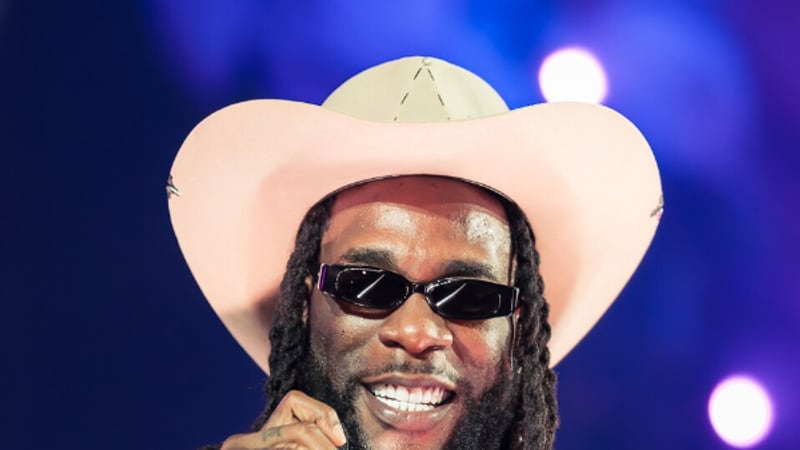
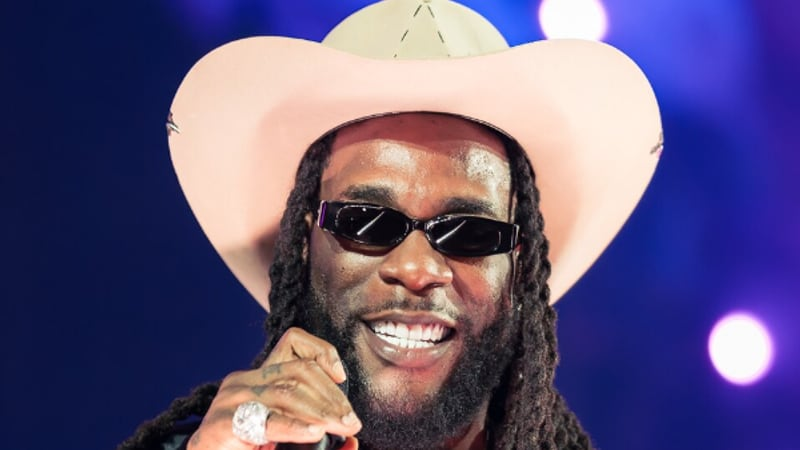
Give every category tile and every story a real photograph
Two sections were still running on generated artwork: the "Every kind of
extraordinary" category mosaic had no imagery at all, and four of the six
stories fell back to a generated banner because only two had a tagged
celebrity.

Category tiles now carry the best-known name in each category, behind a
scrim that holds the type — real photographs vary in exposure, so the
text cannot rely on the image being dark.

Stories get a new `heroTalent` relation, deliberately separate from
`celebrity`. The existing field means "this story is about this person"
and renders a Featured in this story card; borrowing someone's face for
an unrelated piece would have asserted on the page that they are in it.
Each hero now ships with a caption saying who is pictured and why the
photograph sits with the story, plus the photographer and licence — which
CC BY and CC BY-SA require and which the article surfaces previously
omitted entirely. Index and homepage cards carry the credit as an
overlay, matching the profile gallery tiles.

Also re-cut all 27 banner crops. The first pass anchored a 16:9 crop of a
tall portrait at the top edge, which is hair and forehead rather than a
face; Denzel Washington, Chimamanda Ngozi Adichie, Oprah Winfrey, Malcolm
Gladwell, Taylor Swift and Usain Bolt were all foreheads. The band now
starts 18% down the surplus height, with per-frame overrides for three
photographs where the subject sits lower.

Claude-Session: https://claude.ai/code/session_017Wy5QnXYawFGPhp1uzphbo

diff --git a/projects/celebrity-booking-platform/src/app/(marketing)/page.tsx b/projects/celebrity-booking-platform/src/app/(marketing)/page.tsx
@@ -9,7 +9,7 @@ import { Testimonials } from "@/components/marketing/testimonials";
 import { FaqSection } from "@/components/marketing/faq-section";
 import { NewsletterForm } from "@/components/marketing/newsletter-form";
 import { CelebrityCard } from "@/components/celebrity/celebrity-card";
-import { ArticleImage } from "@/components/art/TalentImage";
+import { ArticleImage, TalentImage, articleCredit } from "@/components/art/TalentImage";
 import { Reveal, Stagger, StaggerItem } from "@/components/motion/reveal";
 import { ButtonLink, ArrowGlyph } from "@/components/ui/button";
 import { Avatar } from "@/components/ui/avatar";
@@ -100,19 +100,27 @@ export default async function HomePage() {
                     i === 0 ? "min-h-64" : "min-h-36"
                   }`}
                 >
-                  <span
-                    aria-hidden
-                    className="absolute -right-8 -top-8 size-32 rounded-full opacity-20 blur-2xl transition-opacity duration-500 group-hover:opacity-50"
-                    style={{ background: `oklch(0.6 0.13 ${(i * 47 + 40) % 360})` }}
-                  />
-                  <span className="font-display text-xl font-medium text-foreground transition-colors group-hover:text-gold md:text-2xl">
+                  {/* The category's best-known name fronts the tile. A scrim
+                      carries the type: these are real photographs of varying
+                      exposure, so the text cannot rely on the image being dark. */}
+                  <span aria-hidden className="absolute inset-0">
+                    <TalentImage
+                      celebrity={cat.celebrities[0]}
+                      wide
+                      variant={i}
+                      sizes="(max-width: 768px) 50vw, 20vw"
+                      className="h-full w-full scale-105 object-cover opacity-85 transition-all duration-700 ease-[var(--ease-out-expo)] group-hover:scale-110 group-hover:opacity-100"
+                    />
+                    <span className="absolute inset-0 bg-gradient-to-t from-background via-background/70 to-background/15" />
+                  </span>
+                  <span className="relative font-display text-xl font-medium text-foreground transition-colors group-hover:text-gold md:text-2xl">
                     {cat.name}
                   </span>
-                  <span className="mt-1 text-xs text-faint">
+                  <span className="relative mt-1 text-xs text-faint">
                     {cat._count.celebrities} on the roster
                   </span>
                   {i === 0 && (
-                    <span className="mt-3 max-w-56 text-sm leading-relaxed text-muted">
+                    <span className="relative mt-3 max-w-56 text-sm leading-relaxed text-muted">
                       {cat.tagline}
                     </span>
                   )}
@@ -239,10 +247,15 @@ export default async function HomePage() {
                   <ArticleImage
                     title={a.title}
                     hue={a.heroHue}
-                    celebrity={a.celebrity}
+                    celebrity={a.heroTalent}
                     sizes="(max-width: 768px) 100vw, 33vw"
                     className="absolute inset-0 h-full w-full object-cover transition-transform duration-700 group-hover:scale-105"
                   />
+                  {articleCredit(a.heroTalent) && (
+                    <span className="pointer-events-none absolute inset-x-0 bottom-0 truncate bg-gradient-to-t from-black/70 to-transparent px-3 py-1.5 text-[10px] text-white/70">
+                      {articleCredit(a.heroTalent)}
+                    </span>
+                  )}
                 </div>
                 <div className="p-6">
                   <p className="text-xs uppercase tracking-[0.16em] text-gold">

diff --git a/projects/celebrity-booking-platform/prisma/seed.ts b/projects/celebrity-booking-platform/prisma/seed.ts
@@ -63,6 +63,9 @@ const REVIEW_POOL: { title: string; body: string; eventType: string; rating: num
 const ARTICLES = [
   {
     slug: "art-of-the-private-performance",
+    heroTalentSlug: "adele",
+    heroCaption:
+      "Adele performing. The closeness a private booking is built to recreate — one room, one voice, no stadium.",
     title: "The Art of the Private Performance",
     excerpt: "What separates a good private show from a legendary one? Production advance, room design, and the courage to ask for the unexpected.",
     kind: "guide",
@@ -72,6 +75,9 @@ const ARTICLES = [
   },
   {
     slug: "how-escrow-changed-talent-booking",
+    heroTalentSlug: "beyonce",
+    heroCaption:
+      "Beyoncé at Tottenham Hotspur Stadium. Engagements on this scale are what milestone escrow exists to protect.",
     title: "How Escrow Changed Talent Booking",
     excerpt: "Milestone-based payments ended the era of wire-and-hope. Here is how the modern booking pipeline protects both sides.",
     kind: "news",
@@ -81,6 +87,9 @@ const ARTICLES = [
   },
   {
     slug: "booking-keynotes-that-move-markets",
+    heroTalentSlug: "simon-sinek",
+    heroCaption:
+      "Simon Sinek mid-keynote. The speaker anchors ticket pricing and press long before the agenda is announced.",
     title: "Booking Keynotes That Move Markets",
     excerpt: "The right speaker changes what a summit is worth. A former conference director on how the best programmers think.",
     kind: "guide",
@@ -90,6 +99,9 @@ const ARTICLES = [
   },
   {
     slug: "afrobeats-global-takeover",
+    heroTalentSlug: "burna-boy",
+    heroCaption:
+      "Burna Boy headlining Untold, 2024. Afrobeats now programmes main stages rather than side tents.",
     title: "Afrobeats and the New Global Stage",
     excerpt: "From Lagos to London Stadium: why the world's fastest-growing sound is reshaping event lineups everywhere.",
     kind: "news",
@@ -100,6 +112,9 @@ const ARTICLES = [
   },
   {
     slug: "what-a-booking-fee-actually-buys",
+    heroTalentSlug: "taylor-swift",
+    heroCaption:
+      "Taylor Swift on tour. A headline fee pays for the band, crew, production advance and insurance behind one night.",
     title: "What a Booking Fee Actually Buys",
     excerpt: "Inside the anatomy of a seven-figure appearance fee: production, team, insurance, and the hours you never see.",
     kind: "guide",
@@ -109,6 +124,9 @@ const ARTICLES = [
   },
   {
     slug: "rise-of-the-creator-headliner",
+    heroTalentSlug: "mrbeast",
+    heroCaption:
+      "MrBeast in 2026. Creator audiences now outsize broadcast, and booking contracts have had to follow.",
     title: "The Rise of the Creator Headliner",
     excerpt: "Creators now command audiences larger than networks. What that means for brands planning their next flagship moment.",
     kind: "news",
@@ -397,6 +415,8 @@ async function main() {
         readMinutes: a.readMinutes,
         publishedAt,
         celebrityId: a.celebritySlug ? celebs[a.celebritySlug].id : undefined,
+        heroTalentId: celebs[a.heroTalentSlug].id,
+        heroCaption: a.heroCaption,
       },
     });
   }

diff --git a/projects/celebrity-booking-platform/src/app/(marketing)/news/[slug]/page.tsx b/projects/celebrity-booking-platform/src/app/(marketing)/news/[slug]/page.tsx
@@ -1,7 +1,7 @@
 import Link from "next/link";
 import { notFound } from "next/navigation";
 import type { Metadata } from "next";
-import { ArticleImage } from "@/components/art/TalentImage";
+import { ArticleImage, articleCredit } from "@/components/art/TalentImage";
 import { CelebrityCard } from "@/components/celebrity/celebrity-card";
 import { Reveal } from "@/components/motion/reveal";
 import { db } from "@/lib/db";
@@ -28,11 +28,12 @@ export default async function ArticlePage({ params }: { params: Promise<{ slug: 
   const { slug } = await params;
   const article = await db.article.findUnique({
     where: { slug },
-    include: { celebrity: { include: celebrityInclude } },
+    include: { celebrity: { include: celebrityInclude }, heroTalent: true },
   });
   if (!article) notFound();
 
   const paragraphs = article.body.split("\n\n");
+  const heroCredit = articleCredit(article.heroTalent);
 
   const jsonLd = {
     "@context": "https://schema.org",
@@ -64,16 +65,27 @@ export default async function ArticlePage({ params }: { params: Promise<{ slug: 
       </div>
 
       <Reveal className="mx-auto mt-10 max-w-5xl px-5 sm:px-8">
-        <div className="relative aspect-[21/9] overflow-hidden rounded-[var(--radius-xl)] border border-border">
-          <ArticleImage
-            title={article.title}
-            hue={article.heroHue}
-            celebrity={article.celebrity}
-            priority
-            sizes="100vw"
-            className="absolute inset-0 h-full w-full object-cover"
-          />
-        </div>
+        <figure>
+          <div className="relative aspect-[21/9] overflow-hidden rounded-[var(--radius-xl)] border border-border">
+            <ArticleImage
+              title={article.title}
+              hue={article.heroHue}
+              celebrity={article.heroTalent}
+              priority
+              sizes="100vw"
+              className="absolute inset-0 h-full w-full object-cover"
+            />
+          </div>
+          {/* Names who is pictured, so an illustrative photograph is never
+              mistaken for a claim that the story is about them — and credits
+              the photographer, which CC BY and CC BY-SA both require. */}
+          {article.heroCaption && (
+            <figcaption className="mt-3 text-xs leading-relaxed text-faint">
+              {article.heroCaption}
+              {heroCredit && <span className="text-faint/70"> — photo: {heroCredit}</span>}
+            </figcaption>
+          )}
+        </figure>
       </Reveal>
 
       <div className="mx-auto mt-12 max-w-3xl px-5 sm:px-8">

diff --git a/projects/celebrity-booking-platform/src/app/(marketing)/news/page.tsx b/projects/celebrity-booking-platform/src/app/(marketing)/news/page.tsx
@@ -1,6 +1,6 @@
 import Link from "next/link";
 import type { Metadata } from "next";
-import { ArticleImage } from "@/components/art/TalentImage";
+import { ArticleImage, articleCredit } from "@/components/art/TalentImage";
 import { Reveal, Stagger, StaggerItem } from "@/components/motion/reveal";
 import { getArticles } from "@/lib/queries";
 import { formatDate } from "@/lib/utils";
@@ -37,11 +37,16 @@ export default async function NewsIndex() {
               <ArticleImage
                 title={lead.title}
                 hue={lead.heroHue}
-                celebrity={lead.celebrity}
+                celebrity={lead.heroTalent}
                 priority
                 sizes="(max-width: 1024px) 100vw, 50vw"
                 className="absolute inset-0 h-full w-full object-cover transition-transform duration-700 group-hover:scale-105"
               />
+              {articleCredit(lead.heroTalent) && (
+                <span className="pointer-events-none absolute inset-x-0 bottom-0 truncate bg-gradient-to-t from-black/70 to-transparent px-3 py-1.5 text-[10px] text-white/70">
+                  {articleCredit(lead.heroTalent)}
+                </span>
+              )}
             </div>
             <div className="flex flex-col justify-center p-8 lg:p-12">
               <p className="kicker mb-4">
@@ -70,10 +75,15 @@ export default async function NewsIndex() {
                 <ArticleImage
                   title={a.title}
                   hue={a.heroHue}
-                  celebrity={a.celebrity}
+                  celebrity={a.heroTalent}
                   sizes="(max-width: 768px) 100vw, 33vw"
                   className="absolute inset-0 h-full w-full object-cover transition-transform duration-700 group-hover:scale-105"
                 />
+              {articleCredit(a.heroTalent) && (
+                <span className="pointer-events-none absolute inset-x-0 bottom-0 truncate bg-gradient-to-t from-black/70 to-transparent px-3 py-1.5 text-[10px] text-white/70">
+                  {articleCredit(a.heroTalent)}
+                </span>
+              )}
               </div>
               <div className="p-6">
                 <p className="text-xs uppercase tracking-[0.16em] text-gold">

diff --git a/projects/celebrity-booking-platform/src/components/art/TalentImage.tsx b/projects/celebrity-booking-platform/src/components/art/TalentImage.tsx
@@ -1,6 +1,6 @@
 import Image from "next/image";
 import { PortraitArt, BannerArt } from "./PortraitArt";
-import { getPhoto } from "@/lib/photo";
+import { getPhoto, formatCredit } from "@/lib/photo";
 
 /**
  * The single decision point for talent imagery.
@@ -65,8 +65,16 @@ export function TalentImage({
 }
 
 /**
- * Article hero art. Uses the tagged celebrity's wide photograph when one exists,
- * otherwise the generated banner keyed to the article's hue.
+ * Article and event hero art.
+ *
+ * `celebrity` is whoever's photograph should illustrate the piece. For articles
+ * that is `heroTalent` — chosen for what the picture depicts — which is not the
+ * same as the article's subject: borrowing a person's face for an unrelated
+ * story would read as a claim they are in it. Every article hero therefore
+ * ships with a caption naming who is pictured (see `articleCredit`).
+ *
+ * Falls back to the generated banner keyed to the article's hue when no
+ * photograph is available, so the layout is never broken by a missing asset.
  */
 export function ArticleImage({
   title,
@@ -99,4 +107,15 @@ export function ArticleImage({
       {...(photo.blur ? { placeholder: "blur" as const, blurDataURL: photo.blur } : {})}
     />
   );
+}
+
+/**
+ * "Photo: <photographer> · <licence> (Wikimedia Commons)" for an article hero,
+ * or null when the piece is running on generated artwork. CC BY and CC BY-SA
+ * both require the photographer to be named wherever the image appears.
+ */
+export function articleCredit(celebrity?: TalentImageSubject | null): string | null {
+  const photo = celebrity ? getPhoto(celebrity) : null;
+  if (!photo?.wide || !photo.credit) return null;
+  return formatCredit(photo);
 }

diff --git a/projects/celebrity-booking-platform/src/lib/queries.ts b/projects/celebrity-booking-platform/src/lib/queries.ts
@@ -108,7 +108,15 @@ export function getRelatedCelebrities(categoryId: string, excludeId: string, tak
 
 export function getCategoriesWithCounts() {
   return db.category.findMany({
-    include: { _count: { select: { celebrities: true } } },
+    include: {
+      _count: { select: { celebrities: true } },
+      // The best-known name in the category, whose photograph fronts the tile.
+      celebrities: {
+        orderBy: { popularity: "desc" },
+        take: 1,
+        select: { name: true, accentHue: true, photo: true },
+      },
+    },
     orderBy: { name: "asc" },
   });
 }
@@ -130,7 +138,7 @@ export function getArticles(take?: number) {
   return db.article.findMany({
     orderBy: { publishedAt: "desc" },
     ...(take ? { take } : {}),
-    include: { celebrity: true },
+    include: { celebrity: true, heroTalent: true },
   });
 }
 
